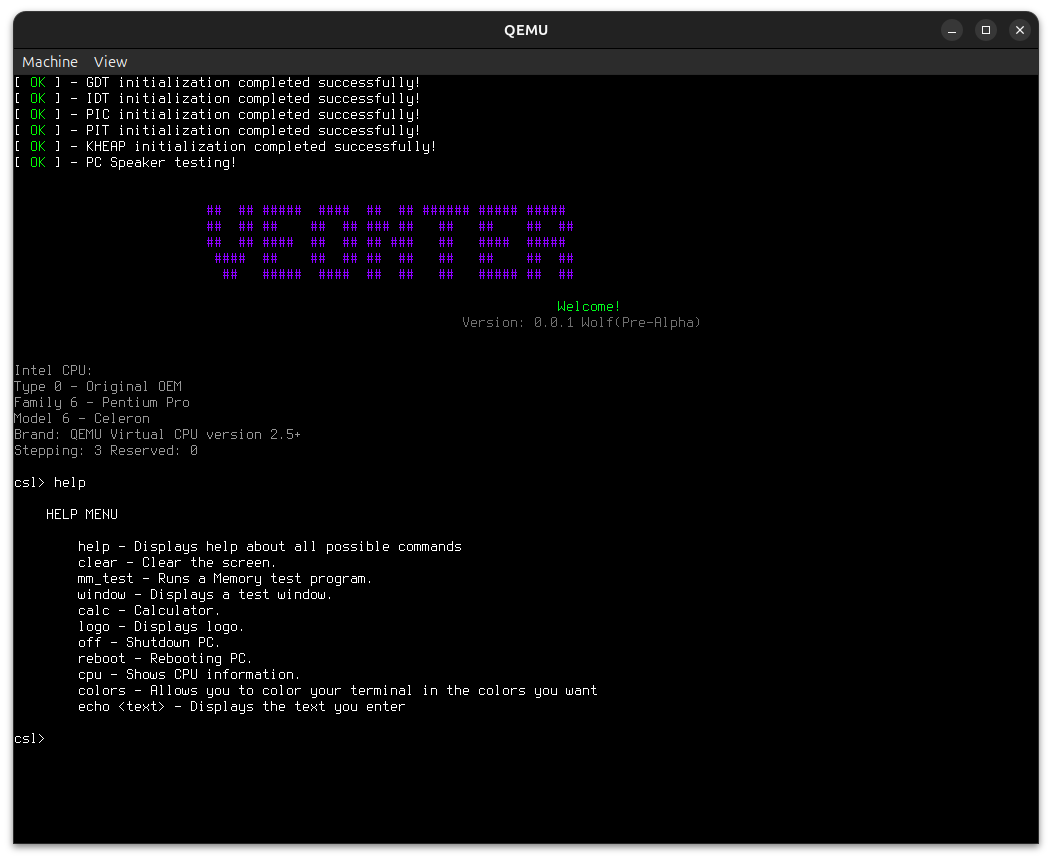
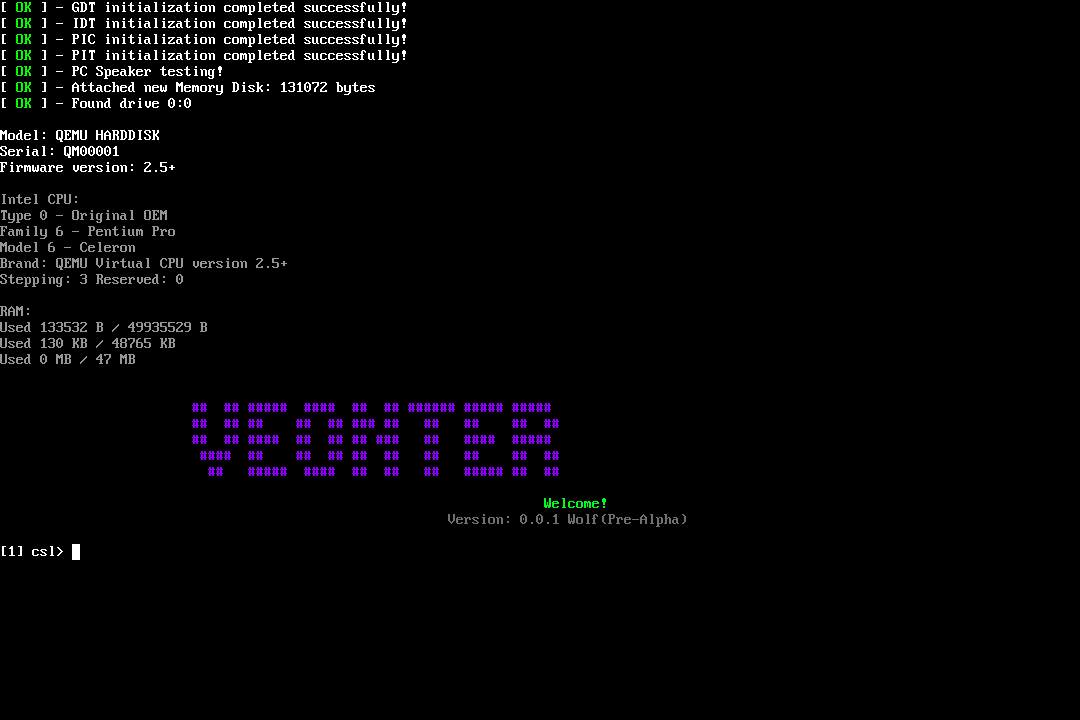
Set normal screen size and update screenshot

diff --git a/kernel/arch/i386/hal.c b/kernel/arch/i386/hal.c
@@ -26,7 +26,7 @@ int init_hal(__attribute__((unused)) multiboot_info_t* multiboot_info) {
     // Инициализируем кучу
     kheap_init((void*)HEAP_START_ADDRESS, heap_size);
 
-    set_video_mode(1920, 1080, 32, (uint32_t*)framebuffer_address); 
+    set_video_mode(1080, 720, 32, (uint32_t*)framebuffer_address); 
     //psf_init();
     psf_v1_init();
 
